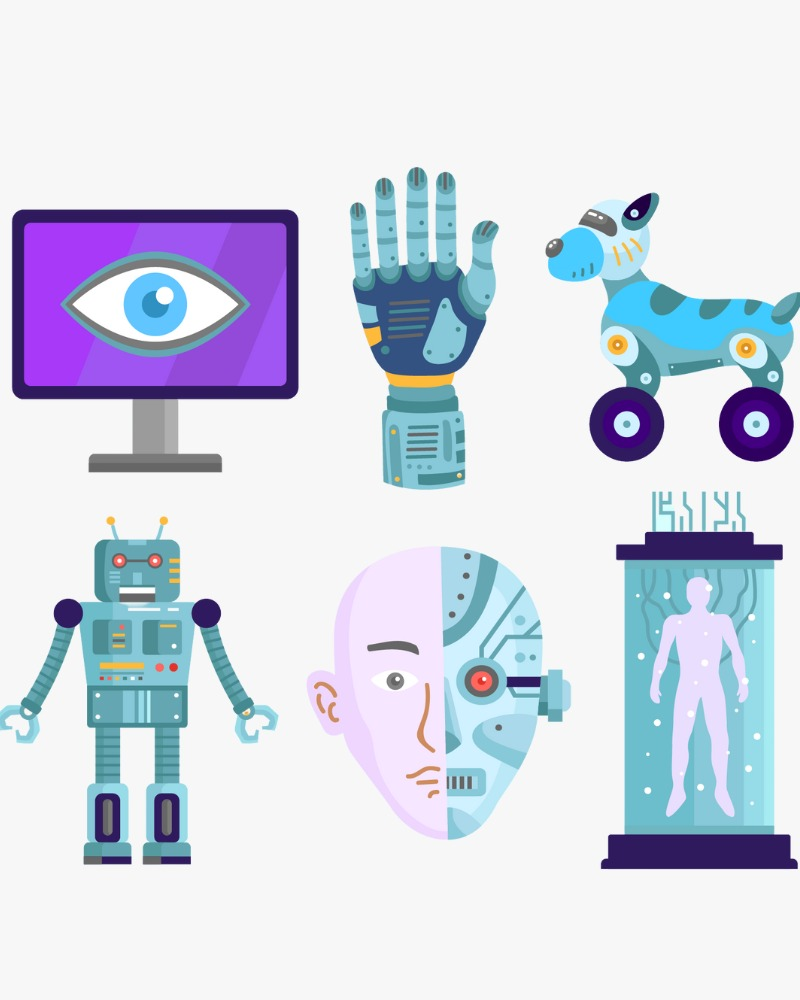
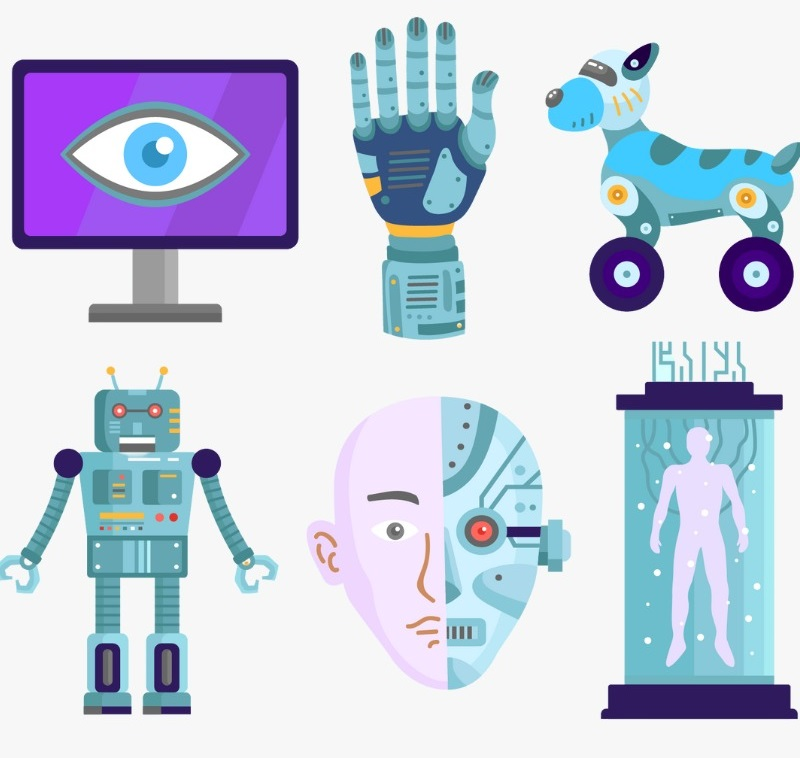
blog img resized and social links added

diff --git a/pages/blogs/ai-and-machinelearning-are-the-future.js b/pages/blogs/ai-and-machinelearning-are-the-future.js
@@ -20,54 +20,119 @@ const WebDevelopment = () => {
               <h2>The Age of Technology Has Arrived: AI and Machine Learning Are the Future</h2>
             </div> */}
             <Image
-                src="/assets/images/AI-1.jpeg"
-                className="img-fluid mb-4"
-                width={700}
-                height={300}
-                alt="computer vision service"
-              />
+              src="/assets/images/AI-1.jpeg"
+              className=" mb-4"
+              width={700}
+              height={600}
+              alt="computer vision service"
+            />
             <div className="each_service">
-              
-
               <div className="each_service_content">
-                <h2>The Age of Technology Has Arrived: AI and Machine Learning Are the Future</h2>
+                <h2>
+                  The Age of Technology Has Arrived: AI and Machine Learning Are
+                  the Future
+                </h2>
                 <p className="mt-4">
-                We live in a technological age where innovation and development are the norm. Artificial intelligence (AI) and machine learning have emerged in recent years, swiftly revolutionizing the way we live, work, and interact with the world around us. We will look at how artificial intelligence and machine learning are transforming numerous sectors, as well as the possible influence they will have on our future.
-                  </p>
+                  We live in a technological age where innovation and
+                  development are the norm. Artificial intelligence (AI) and
+                  machine learning have emerged in recent years, swiftly
+                  revolutionizing the way we live, work, and interact with the
+                  world around us. We will look at how artificial intelligence
+                  and machine learning are transforming numerous sectors, as
+                  well as the possible influence they will have on our future.
+                </p>
 
-                  <h6>The Advancement of AI and Machine Learning</h6>
-                  <p>
-                    Artificial intelligence and machine learning are not new notions. For decades, researchers have been working on these technologies. Recent technical breakthroughs, however, have resulted in tremendous progress in the subject. These are being applied in a variety of industries, including healthcare, banking, retail, transportation, and others.
-                    <br /><br />
-                    AI is the creation of intelligent machines capable of doing activities that would normally need human intelligence. Machine learning, on the other hand, is a subset of artificial intelligence that allows computers to learn from data and improve their performance without being explicitly programmed. Algorithms enable these technologies to make choices based on patterns and correlations within data sets.
-                  </p>
-                  <h6>The Applications</h6>
-                  <p>
-                    AI and machine learning are being employed in a wide range of applications and sectors. These are utilized in healthcare for illness diagnosis, treatment, and research. AI systems, for example, may examine medical photos to discover early symptoms of cancer, and machine learning models can forecast a patient chance of getting a certain condition.
-                    <br /><br />
-                    These methods are also used in finance for fraud detection, risk management, and trading. AI is used by banks and financial institutions to monitor transactions and detect suspicious activity, while machine learning algorithms are used by investment firms to enhance their trading methods and portfolios. In retail, these are used to improve consumer engagement and customization. Machine learning-based recommendation algorithms are applied on online purchasing platforms. Customers can get tailored product recommendations from learning algorithms based on their prior behavior and interests. 
-                  </p>
-                  <Image
-                    src="/assets/images/AI-2.jpeg"
-                    className="img-fluid mb-4"
-                    width={600}
-                    height={500}
-                    alt="computer vision service"
-                     />
+                <h6>The Advancement of AI and Machine Learning</h6>
+                <p>
+                  Artificial intelligence and machine learning are not new
+                  notions. For decades, researchers have been working on these
+                  technologies. Recent technical breakthroughs, however, have
+                  resulted in tremendous progress in the subject. These are
+                  being applied in a variety of industries, including
+                  healthcare, banking, retail, transportation, and others.
+                  <br />
+                  <br />
+                  AI is the creation of intelligent machines capable of doing
+                  activities that would normally need human intelligence.
+                  Machine learning, on the other hand, is a subset of artificial
+                  intelligence that allows computers to learn from data and
+                  improve their performance without being explicitly programmed.
+                  Algorithms enable these technologies to make choices based on
+                  patterns and correlations within data sets.
+                </p>
+                <h6>The Applications</h6>
+                <p>
+                  AI and machine learning are being employed in a wide range of
+                  applications and sectors. These are utilized in healthcare for
+                  illness diagnosis, treatment, and research. AI systems, for
+                  example, may examine medical photos to discover early symptoms
+                  of cancer, and machine learning models can forecast a patient
+                  chance of getting a certain condition.
+                  <br />
+                  <br />
+                  These methods are also used in finance for fraud detection,
+                  risk management, and trading. AI is used by banks and
+                  financial institutions to monitor transactions and detect
+                  suspicious activity, while machine learning algorithms are
+                  used by investment firms to enhance their trading methods and
+                  portfolios. In retail, these are used to improve consumer
+                  engagement and customization. Machine learning-based
+                  recommendation algorithms are applied on online purchasing
+                  platforms. Customers can get tailored product recommendations
+                  from learning algorithms based on their prior behavior and
+                  interests.
+                </p>
+                <Image
+                  src="/assets/images/AI-2.jpeg"
+                  className="img-fluid mb-4"
+                  width={600}
+                  height={500}
+                  alt="computer vision service"
+                />
                 <h6>The Future</h6>
                 <p>
-                 AI and machine learning have a bright future, and the possibilities for these technologies are limitless. As technology continues to improve, we should expect to see more advanced AI algorithms that can analyze large volumes of data and deliver significant insights. We may also anticipate to see more AI and machine learning applications in fields such as education, agriculture, and industry.
-                 <br /><br />
-                 The potential to automate repetitive and tedious operations is one of its most significant advantages. This allows humans to focus on more difficult and creative jobs, resulting in a more productive and efficient workforce.
+                  AI and machine learning have a bright future, and the
+                  possibilities for these technologies are limitless. As
+                  technology continues to improve, we should expect to see more
+                  advanced AI algorithms that can analyze large volumes of data
+                  and deliver significant insights. We may also anticipate to
+                  see more AI and machine learning applications in fields such
+                  as education, agriculture, and industry.
+                  <br />
+                  <br />
+                  The potential to automate repetitive and tedious operations is
+                  one of its most significant advantages. This allows humans to
+                  focus on more difficult and creative jobs, resulting in a more
+                  productive and efficient workforce.
                 </p>
 
                 <h6>The Difficulties</h6>
                 <p>
-                    However, questions about the ethical and societal ramifications of AI and machine learning arise. One major source of worry is the possibility that these technologies would be prejudiced or discriminating. This can happen if the algorithms are trained on flawed data, resulting in biased judgments and consequences.
-                    <br /><br />
-                    Another source of concern is the possibility of job displacement when computers take over previously performed human duties. While this may result in employment losses in certain sectors, it may also open up new opportunities in others, such as data analysis and machine learning development.
-                    <br /><br /><br />
-                    Finally, the evolving technologies are reshaping the world as we know it. These have the potential to transform a variety of sectors and result in a more productive and efficient workforce. Yet, in order to guarantee that these technologies are applied responsibly and ethically, we must also consider that. Nevertheless, the future of AI and machine learning looks positive, and we may anticipate a world in which people and robots collaborate to build a better future.
+                  However, questions about the ethical and societal
+                  ramifications of AI and machine learning arise. One major
+                  source of worry is the possibility that these technologies
+                  would be prejudiced or discriminating. This can happen if the
+                  algorithms are trained on flawed data, resulting in biased
+                  judgments and consequences.
+                  <br />
+                  <br />
+                  Another source of concern is the possibility of job
+                  displacement when computers take over previously performed
+                  human duties. While this may result in employment losses in
+                  certain sectors, it may also open up new opportunities in
+                  others, such as data analysis and machine learning
+                  development.
+                  <br />
+                  <br />
+                  <br />
+                  Finally, the evolving technologies are reshaping the world as
+                  we know it. These have the potential to transform a variety of
+                  sectors and result in a more productive and efficient
+                  workforce. Yet, in order to guarantee that these technologies
+                  are applied responsibly and ethically, we must also consider
+                  that. Nevertheless, the future of AI and machine learning
+                  looks positive, and we may anticipate a world in which people
+                  and robots collaborate to build a better future.
                 </p>
               </div>
             </div>

diff --git a/components/Footer.js b/components/Footer.js
@@ -69,13 +69,13 @@ const Footer = () => {
                     <button>Subscribe</button>
                   </form> */}
                   <div className="social_box">
-                    <a href="">
+                    <a href="https://www.facebook.com/KodeEnd" target="_blank" rel="noreferrer">
                       <Image src="/assets/images/fb.png" width={30} height={30} alt="Facebook" />
                     </a>
-                    <a href="">
+                    {/* <a href="">
                       <Image src="/assets/images/twitter.png" width={30} height={30} alt="Twitter" />
-                    </a>
-                    <a href="">
+                    </a> */}
+                    <a href="https://www.linkedin.com/company/shahnawaz-jinnah-53264567" target="_blank" rel="noreferrer">
                       <Image src="/assets/images/linkedin.png" width={30} height={30} alt="Linked In" />
                     </a>
                     {/* <a href="">
